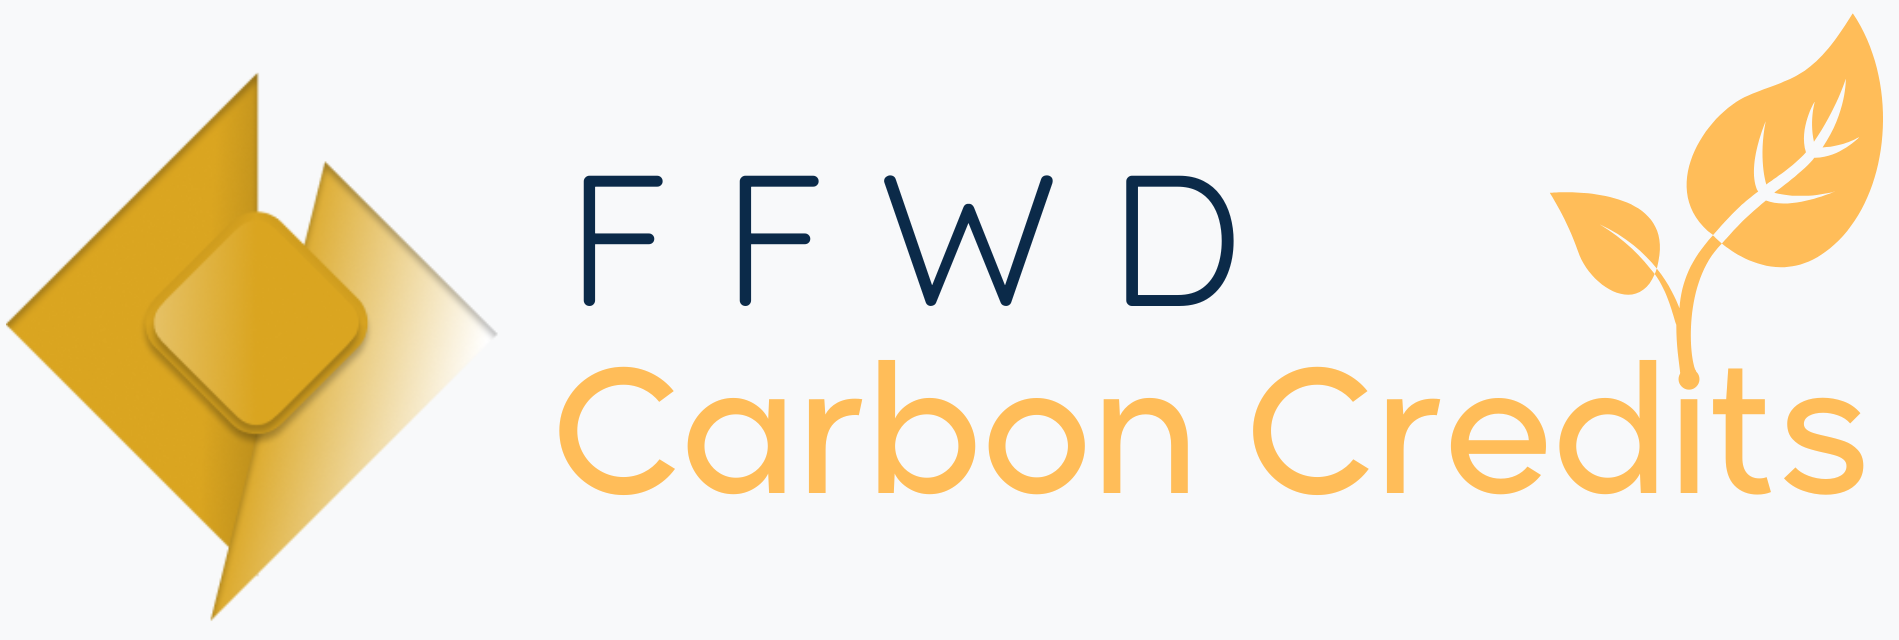
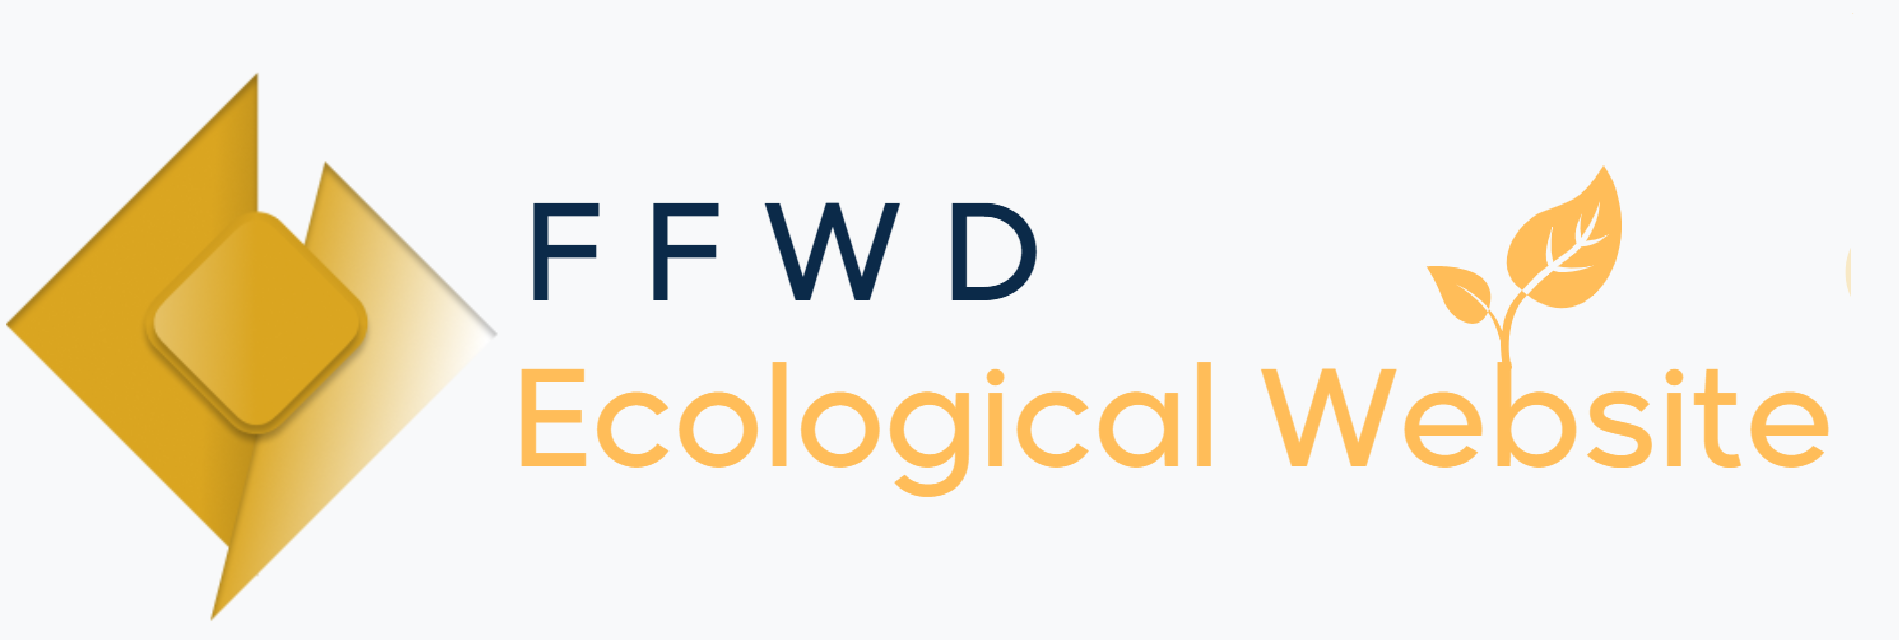
Commit
Atualizando logo e home page

Changed region(s): [[0.2486, 0.0312, 0.9942, 0.7812], [0.2796, 0.25, 0.5592, 0.4688], [0.5903, 0.25, 0.6524, 0.5]]

diff --git a/index.html b/index.html
@@ -71,6 +71,23 @@
 
     <div class="conteudo-escrito-site">
 
+      <h2>FFWD Ecological Website </h2>
+      <span class="sub-titulo">
+        <h4>Desenvolvido por alunos do curso de Ciência da Computação</h4>
+      </span><br>
+
+      <div class="texto_e_imagem">
+
+        <p>Aqui você encontrará projetos voltados para a conscientização ambiental e soluções sustentáveis, com foco em temas como emissões de CO₂, pegada de carbono de veículos, créditos de carbono e ferramentas para calcular a emergia na geração de energia solar. Meu objetivo é unir tecnologia e responsabilidade ambiental com projetos, para informar, inspirar e propor caminhos mais sustentáveis para o nosso futuro.
+        </p>
+
+        <figure>
+          <img class="imagens-site" src="img/yellow-lightbulb-yellow-background-simple-background-technology-hd-wallpaper-preview.jpg"
+            alt="Lâmpada com fundo amarelo" />
+        </figure>
+
+      </div>
+
       <h2>Conceito de CO₂</h2>
       <span class="sub-titulo">
         <h4>Dióxido de carbono e seu impacto</h4>
